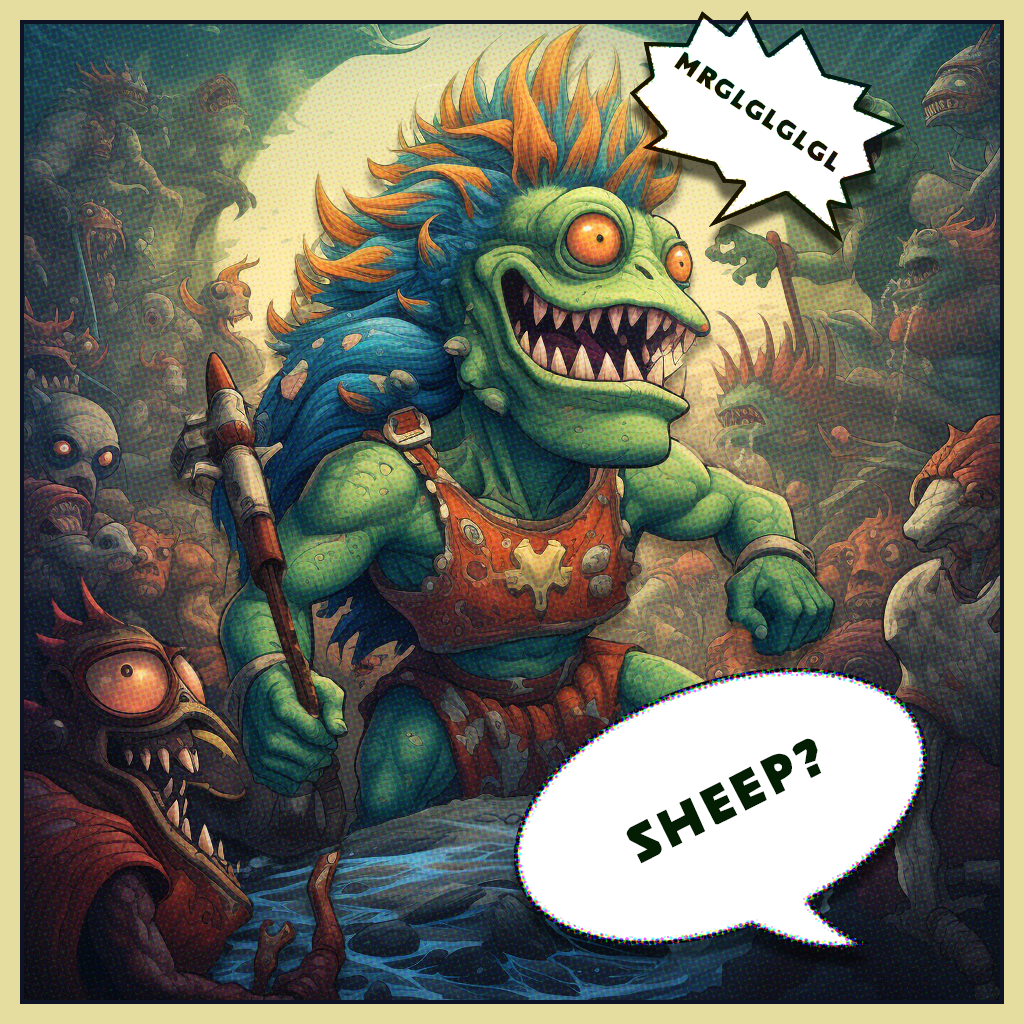
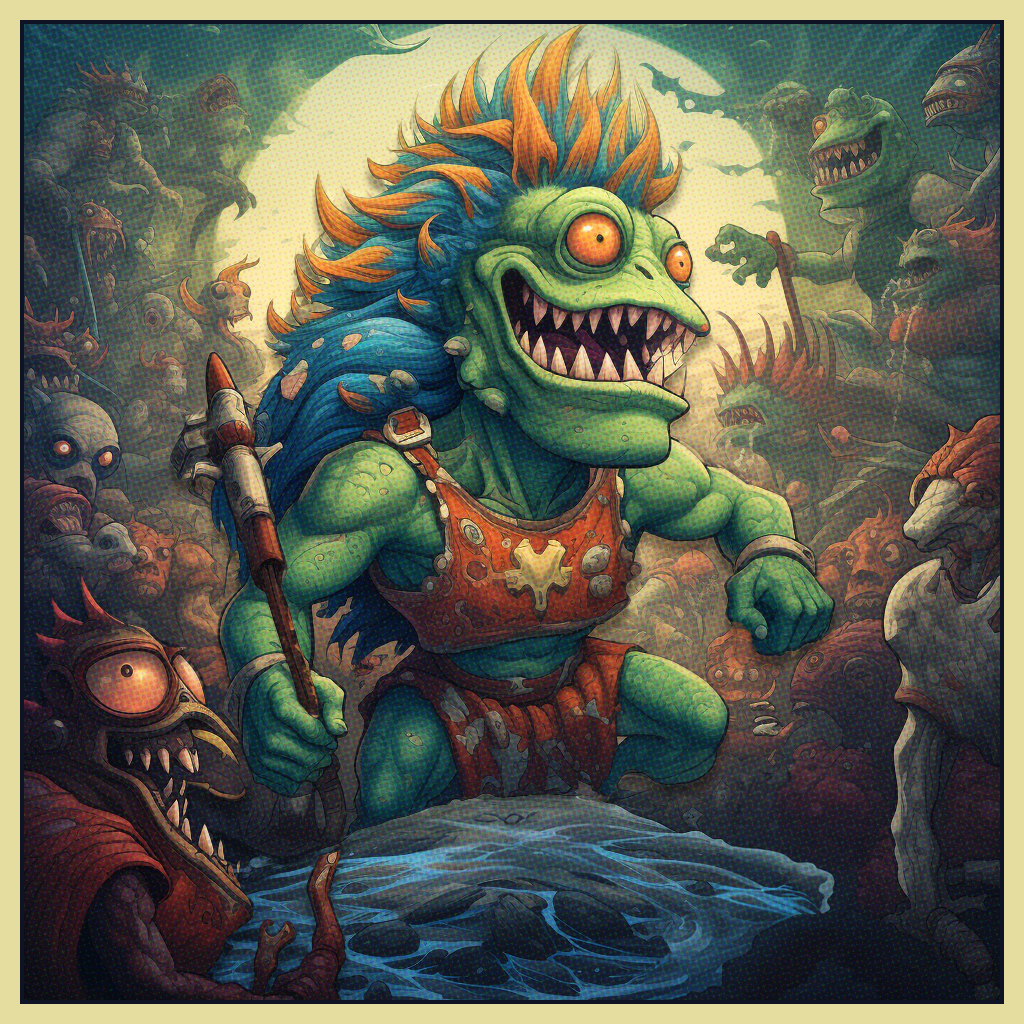
svg bubbles

Changed region(s): [[0.5, 0.625, 0.9062, 0.9375], [0.5938, 0.0, 0.875, 0.25]]

diff --git a/css/landing.css b/css/landing.css
@@ -1,41 +1,76 @@
 body, html {
-    height: 100%;
-    margin: 0;
-    display: flex;
-    justify-content: center;
-    align-items: center;
-    background-color: #f3f3f3;
+    background-color: #eceee1;
 }
 
-.container {
-    display: flex;
-    flex-direction: column;
-    align-items: center;
-    text-align: center;
+/* speech bubbles*/
+
+* { 
+box-sizing: border-box;
+}
+body { 
+font-family: 'Bangers'; 
+font-size: clamp(1.5rem, 2.5vw, 3rem);
+margin: 0;
 }
 
-.container img {
-    max-width: 100%; /* ensure image does not overflow on smaller screens */
-    height: auto; /* allow height to adjust automatically */
-    object-fit: cover;
-    border: #333 15px solid;
+blockquote.bubble { 
+background-position: center;
+background-repeat: no-repeat !important;
+background-size: 100% 100%;
+margin: 0 auto;
+text-align: center;
+height: 0;
+box-sizing: content-box;
+line-height: 1;
+}
+blockquote.speech {
+background: url(../data/speech-bubble.svg); 
+width: 25%;
+padding-top: 6%;
+padding-bottom: 20%;
+}
+blockquote.whisper {
+background: url(../data/whisper.svg); /* whisper.svg */
+width: 25%;
+font-size: clamp(1.5rem, 2.5vw, 3rem);
+color: #ccc;
+font-style: italic;
+padding: 6% 5% 15%;
+}
+blockquote.electric {
+background: url(../data/electric.svg); /* electric.svg*/
+width: 25%;
+font-size: clamp(1rem, 2vw, 2.5vw);
+font-style: italic;
+padding: 4% 6% 12% 0%;
+}
+blockquote.electric span {
+display: block;
+font-size: clamp(1rem, 2vw, 2.5vw);
+font-weight: bold;
 }
 
-.container p {
-    font-family: 'Bangers', cursive;
-    margin-top: 20px;
-    font-size: 24px; /* adjusted to a smaller size for better mobile viewing */
-    color: #333;
+/* Image positioning */
+
+.image-container {
+    position: relative;
+    width: 1024px;   /* width of the image */
+    height: 1024px;  /* height of the image */
+    margin: 0 auto;  /* centering the container if needed */
 }
 
-/* Media query for larger screens */
-@media screen and (min-width: 768px) {
-    .container img {
-        width: 800px; /* apply fixed width for larger screens */
-        height: 800px; /* apply fixed height for larger screens */
-    }
+blockquote.bubble {
+    position: absolute;
+}
 
-    .container p {
-        font-size: 58px; /* larger font size for larger screens */
-    }
+blockquote.electric {
+    top: 8%;  /* adjust these values as needed */
+    right: 55%;
+    z-index: 1;
+}
+
+blockquote.speech {
+    top: 70%;  /* adjust these values as needed */
+    left: 65%;
+    z-index: 1;
 }

diff --git a/index.html b/index.html
@@ -1,0 +1,34 @@
+<!DOCTYPE html>
+<html lang="en">
+<head>
+    <meta charset="UTF-8">
+    <meta name="viewport" content="width=device-width, initial-scale=1.0">
+
+    <!-- Prevent caching -->
+    <meta http-equiv="Cache-Control" content="no-cache, no-store, must-revalidate" />
+    <meta http-equiv="Pragma" content="no-cache" />
+    <meta http-equiv="Expires" content="0" />
+
+    <title>Mrglglglgl.com Coming Soon!</title>
+
+    <!-- Importing the Google Font -->
+    <link rel="preconnect" href="https://fonts.googleapis.com">
+    <link rel="preconnect" href="https://fonts.gstatic.com" crossorigin>
+    <link href="https://fonts.googleapis.com/css2?family=Bangers&family=Crimson+Text:ital,wght@1,400;1,600&family=Lobster&display=swap" rel="stylesheet">
+
+    <!-- My stylesheet -->
+    <link rel="stylesheet" href="css/landing.css">
+</head>
+
+<body>
+        Test
+    <div class="image-container">
+        <blockquote class="electric bubble">Mrglglglgl<br> Lumps!</blockquote>
+        <blockquote class="speech bubble">Sheep?</blockquote>
+        <img src="img/landing00.png" alt="Centered Image">
+        
+    </div>
+    
+</body>
+
+</html>
